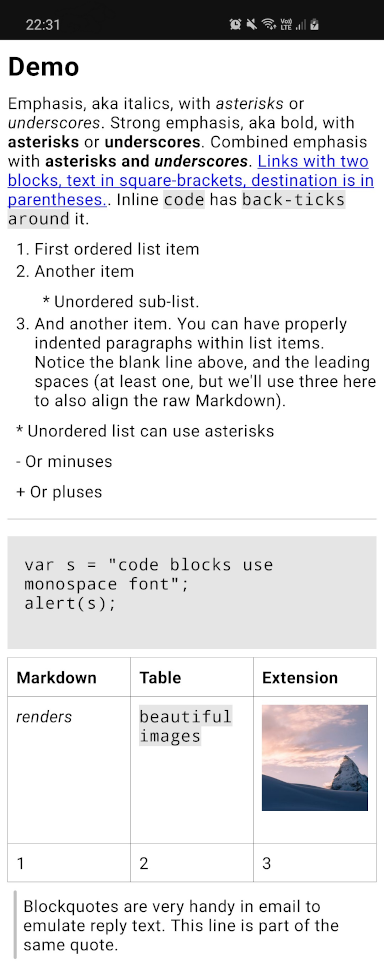
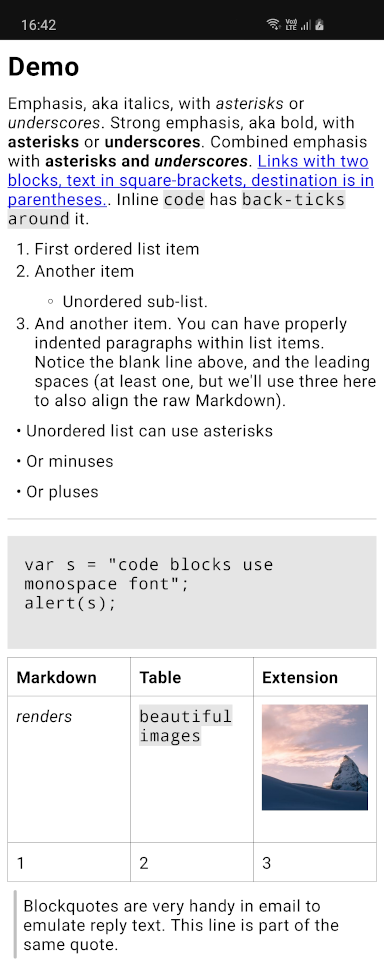
- Remove BulletList styling for different leading characters - Update markdown-demo.png to show new BulletList rendering

diff --git a/richtext-commonmark/src/main/java/com/zachklipp/richtext/markdown/Markdown.kt b/richtext-commonmark/src/main/java/com/zachklipp/richtext/markdown/Markdown.kt
@@ -102,19 +102,11 @@ internal fun RichTextScope.RecursiveRenderMarkdownAst(astNode: AstNode?) {
       }
     }
     is AstBulletList -> {
-      WithStyle(
-          style = RichTextStyle(
-              listStyle = ListStyle.Default.copy(
-                  unorderedMarkers = UnorderedMarkers.text("${astNode.bulletMarker}")
-              )
-          )
-      ) {
-        FormattedList(
-            listType = ListType.Unordered,
-            items = astNode.childrenSequence().toList()
-        ) { astListItem ->
-          visitChildren(astListItem)
-        }
+      FormattedList(
+          listType = ListType.Unordered,
+          items = astNode.childrenSequence().toList()
+      ) { astListItem ->
+        visitChildren(astListItem)
       }
     }
     is AstFencedCodeBlock -> {
